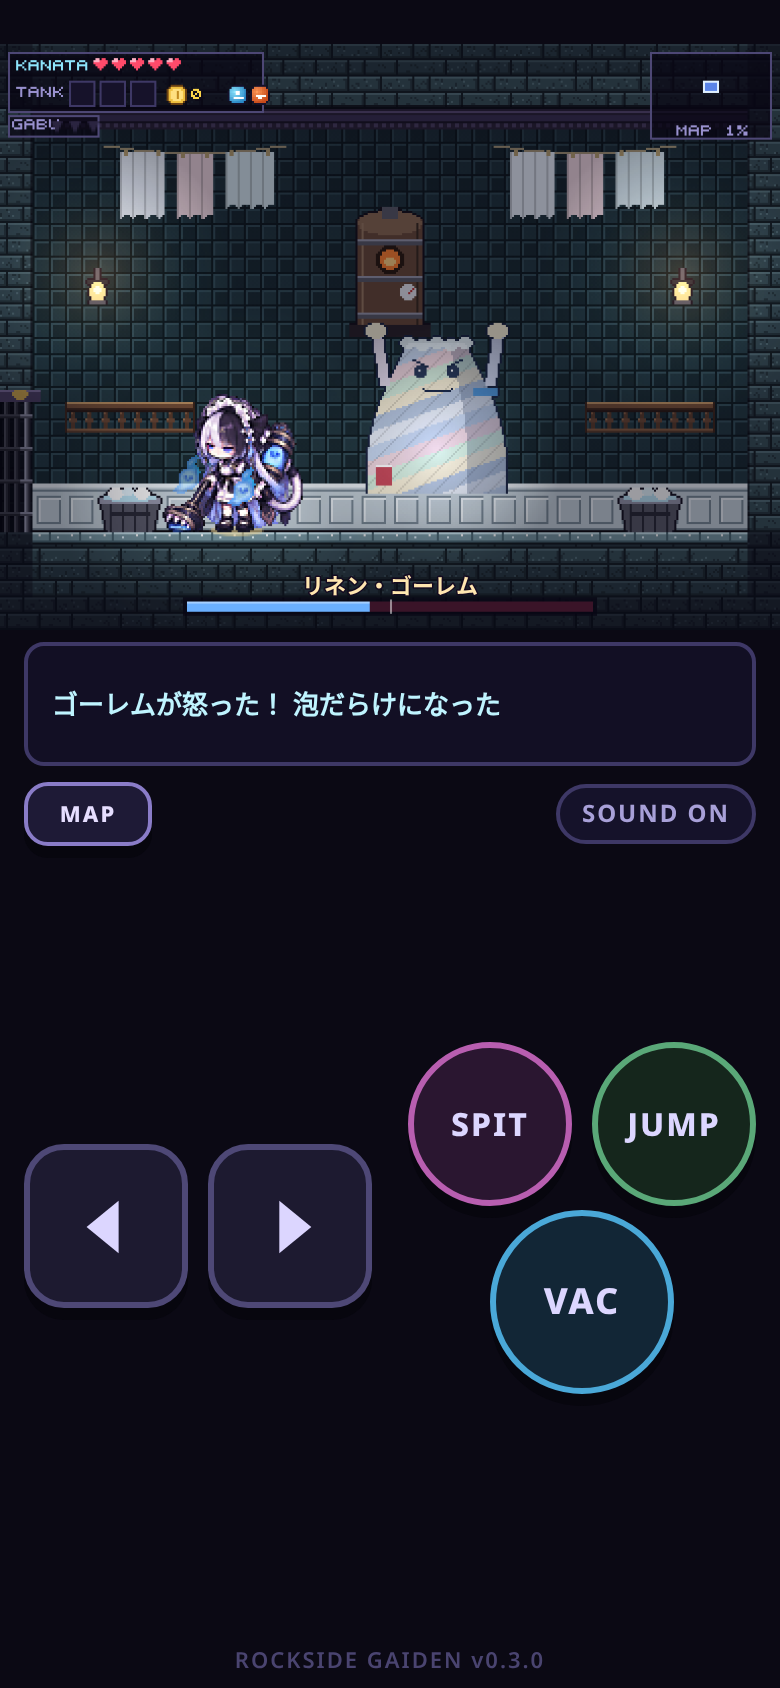
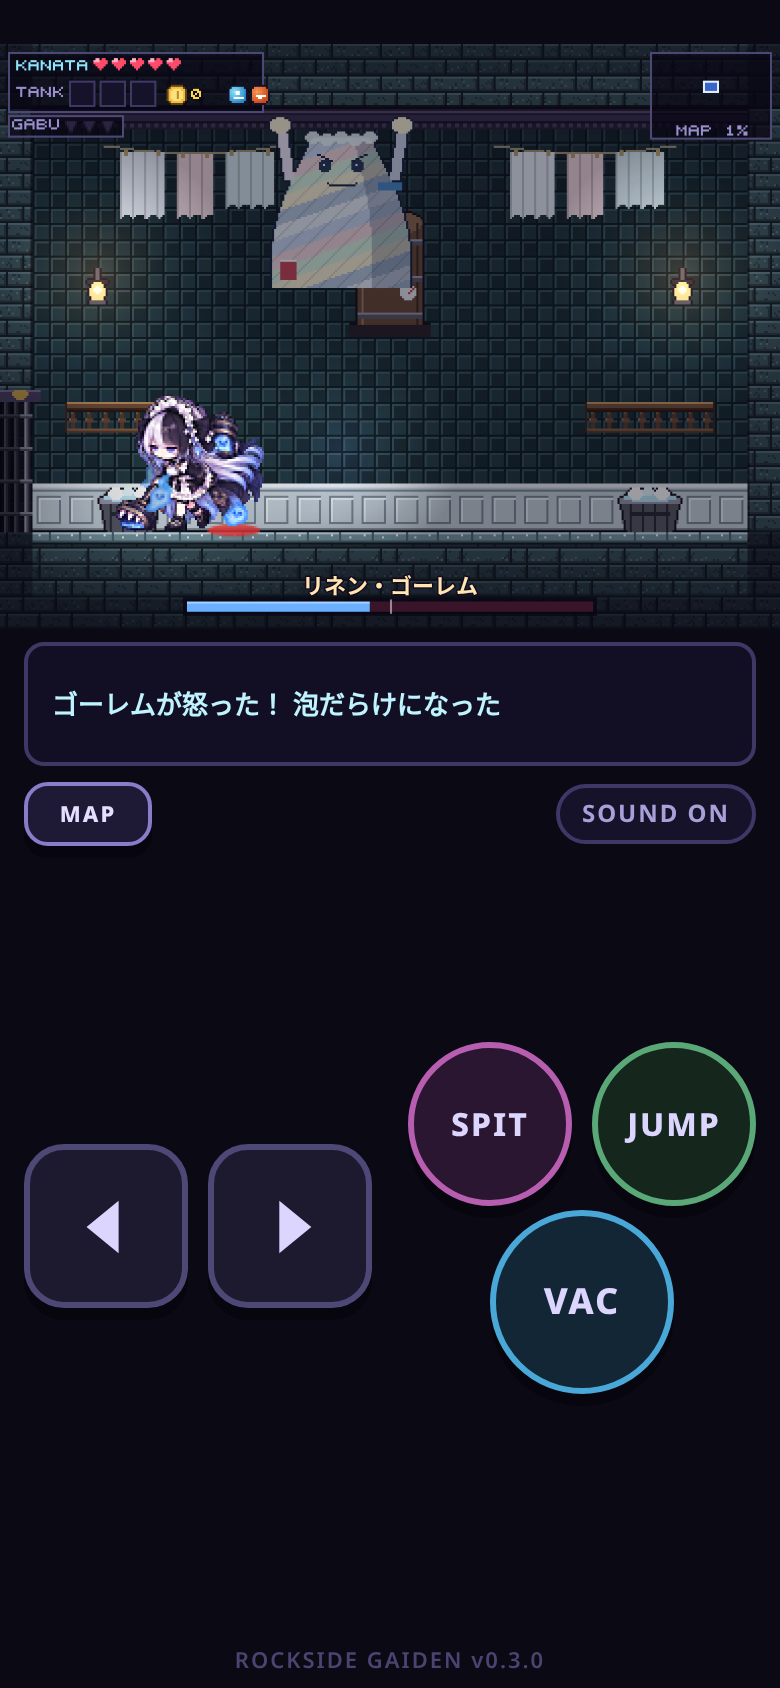
v0.3.0: README, v03 screenshots

Changed region(s): [[0.3385, 0.0616, 0.6769, 0.3389], [0.0615, 0.2156, 0.4, 0.3389], [0.1231, 0.0616, 0.1538, 0.0924]]

diff --git a/tools/shots03.js b/tools/shots03.js
@@ -49,11 +49,11 @@ const only = process.argv[2];
   // ---- buffed bosses: phase-2 moves
   for (const [kind, roomId, abil, st] of [['golem', 'washroom', 'float,turbo', 'leap'], ['rose', 'rosebed', 'float,turbo,djump', 'garden'], ['clock', 'clockroom', ALL, 'midnight']]) {
     const name = 'v03_boss_' + kind + '_' + st + '.png'; if (!want(name)) continue;
-    const { ctx, page } = await open(`?room=${roomId}&x=2&y=16&god=1&abil=${abil}`);
-    await E(page, BOT); await E(page, () => { window.__speed = 4; });
+    const { ctx, page } = await open(`?room=${roomId}&x=2&y=16&god=1&abil=${abil}&bossatk=${st}`);
+    await E(page, BOT); await E(page, () => { window.__speed = 2; });
     await page.waitForFunction(() => GAIDEN.boss && GAIDEN.boss.state !== 'sleep' && GAIDEN.boss.state !== 'intro', null, { timeout: 20000 });
     await E(page, () => { const b = GAIDEN.boss; b.hp = Math.floor(b.maxHp * 0.45); b.damage(0); });
-    await page.waitForFunction(s => GAIDEN.boss && GAIDEN.boss.state === s && GAIDEN.boss.t > 22, st, { timeout: 120000, polling: 'raf' }).catch(e => console.log('wait', kind, st, e.message));
+    await page.waitForFunction(s => GAIDEN.boss && GAIDEN.boss.state === s && GAIDEN.boss.t > (s === 'midnight' ? 70 : s === 'leap' ? 40 : 30), st, { timeout: 120000, polling: 'raf' }).catch(e => console.log('wait', kind, st, e.message));
     await E(page, () => { window.__speed = 0; }); await sleep(150); await snap(page, name); await ctx.close(); }
   console.log('errors:', errs.length ? errs : 'none');
   await browser.close(); srv.close(); process.exit(0);

diff --git a/README.md b/README.md
@@ -1,4 +1,4 @@
-# ROCKSIDE外伝 – 清掃員カナタ 〜幽霊屋敷のおそうじ〜 (v0.2.0)
+# ROCKSIDE外伝 – 清掃員カナタ 〜幽霊屋敷のおそうじ〜 (v0.3.0)
 
 A small SotN-style exploration game with a Luigi's-Mansion vacuum. It is a spin-off of ROCKSIDE.
 Play it here: https://kanata-games.github.io/rockside-gaiden/ (the page has noindex).
@@ -27,14 +27,16 @@ Play it here: https://kanata-games.github.io/rockside-gaiden/ (the page has noin
 | book / chair / pan | 2-4 | sturdy: drops back so it can be reused (but breaks on a boss) |
 | pot / barrel (heavy, need ターボ吸引) | 5-6 | heavy hit that pierces through enemies and breaks gargoyle stone skin |
 
-**Normal enemies are immune to the vacuum** (it only goes "tink"). You beat them by throwing things:
+**The vacuum is a mimic, and it EATS tiny critters.** Rats, bats and bath crabs are sucked in and eaten ("GABU!" + chomp). Each one heals half a heart and fills the **GABU gauge** (3 fangs under the HUD). With a full gauge the next SPIT is powered up: a stored object does double damage, pierces and glows. With an empty tank you get a **bite wave** that hits everything close in front of you (3 damage, and it stuns ghosts).
+
+**Bigger enemies are immune to the vacuum** (it only goes "tink"). You beat them by throwing things:
 - living armor
-- bat swarm
-- rats
 - gargoyle (stone skin while perched: use heavy, burning or splash hits)
 - puppet doll (throws needles)
 - skeleton butler (throws plates you can catch)
 - cursed book (bites, then dashes)
+- skull wisp (crypt; spits bones you can catch = BONE ammo that pierces)
+- bath crab (bath; snaps sideways, edible)
 
 Normal enemies and ghosts appear together in the same rooms.
 
@@ -43,9 +45,11 @@ Normal enemies and ghosts appear together in the same rooms.
 |---|---|---|
 | ふわり化 FLOAT | appears after the chandelier boss | Hold SPIT: the oldest stored object floats as a temporary platform (only usable from solid ground). Reaches higher ledges in the laundry area. |
 | ターボ吸引 TURBO | pantry | Longer, stronger suction. Lifts heavy objects, pulls levers, and drags the foyer wardrobe aside (→ garden). |
-| ゴーストステップ DOUBLE JUMP | garden tool shed | A second jump in mid-air. Reaches the dining-hall ceiling hole (→ attic & clock tower) and the greenhouse birdcage. |
+| ゴーストステップ DOUBLE JUMP | garden tool shed | A second jump in mid-air. Reaches the dining-hall ceiling hole (→ attic & clock tower, chapel) and the greenhouse birdcage. |
+| 霊体化 PHASE | after the organ boss (chapel choir) | Walk through pale-blue spirit barriers: the clock-tower gearshaft (→ final boss), the reliquary secret and the well down to the grand bath. |
+| 大容量タンク BIG TANK | after the serpent boss (grand bath) | The TANK holds 4 objects. |
 
-## Areas (32 rooms, 54 map cells)
+## Areas (6 areas, plus a warp room in each)
 Each area has its own tiles, background and music.
 
 | area | rooms | boss |
@@ -54,11 +58,18 @@ Each area has its own tiles, background and music.
 | 地下 洗濯場と厨房 (Laundry & Kitchen) | 9 | リネン・ゴーレム LINEN GOLEM |
 | 月下の温室庭園 (Moonlit Garden) | 8 | 夜咲きの女王 マダム・ローズ MADAME ROSE |
 | 屋根裏と時計塔 (Attic & Clock Tower) | 7 | 大時計の番人 チクタク GRANDFATHER TICKTOCK (final) |
+| 礼拝堂と地下墓所 (Chapel & Crypt), new in v0.3 | 6 | 呪いのパイプオルガン CURSED PIPE ORGAN |
+| 大浴場と貯水槽 (Grand Bath & Cistern), new in v0.3 (optional, behind a spirit barrier) | 6 | 大浴場の主 ユブネ BATHWATER SERPENT |
 
-Every boss telegraphs its attacks: floor marks, red flashes, HIGH/LOW guide lines, a dotted pendulum arc. Every 3rd attack is a long special move that leaves the boss stunned. Its ghost core pops out, and that core is the weak point: vacuum it and win the tug-of-war. Spitting objects also deals damage. Below 50% HP the boss gets angry.
+**Warp rooms.** Every area has a ワープの間 with a glowing circle. Step on it to open the destination menu, which lists every warp room you have found and shows them on the map (W). The map marks discovered warp rooms.
+
+Every boss telegraphs its attacks: floor marks, red flashes, HIGH/LOW guide lines, a dotted pendulum arc. Every 3rd attack (every 4th for the later bosses) is a long special move that leaves the boss stunned. Its ghost core pops out, and that core is the weak point: vacuum it and win the tug-of-war. The core breaks free after a capped amount of damage per opening. Spitting objects also deals damage. Below 50% HP the boss gets angry and gains phase-2 moves and combos: the golem's leap, the rose's garden of thorns, the organ's requiem, the clock's MIDNIGHT barrage. At 25% the clock goes into OVERDRIVE.
+
+Difficulty rises chandelier < golem < rose ≈ organ < serpent < clock (see the bot table in the release notes).
 
 Other features:
 - Save altars.
+- Door safety: brief i-frames on entering a room, no enemies spawn near the entry, and knockback can't push you through a door (fixes the pantry rat stunlock).
 - Secret rooms (4).
 - Map screen with completion %, plus a mini-map.
 - Max-HP hearts.
@@ -67,11 +78,12 @@ Other features:
 ```
 python3 tools/make_art.py       # regenerate the pixel art atlases (assets/*.png + json)
 python3 tools/build.py          # src/*.js + src/01_head.html -> index.html (asset JSON inlined)
-node tools/test.js              # Playwright: 50 checks (abilities, gating, foes, all 4 bosses beaten by the bot)
+node tools/test.js              # Playwright: 68 checks (abilities, gating, eating, warps, spirit gates, door safety, all 6 bosses beaten by the bot)
 node tools/reach.js             # whole-mansion reachability + ability gating check
 node tools/bossrun.js 5         # boss balance: the bot fights each boss 5x WITHOUT god mode
 node tools/rooms.js /tmp/rooms  # load + screenshot every room
-node tools/shots.js             # phone screenshots -> screenshots/v02_*.png
+node tools/shots03.js           # phone screenshots -> screenshots/v03_*.png
+node tools/doors.js             # audit: no enemies placed next to doors
 ```
 Debug URL params:
 - `?room=attic&x=3&y=15&god=1`
